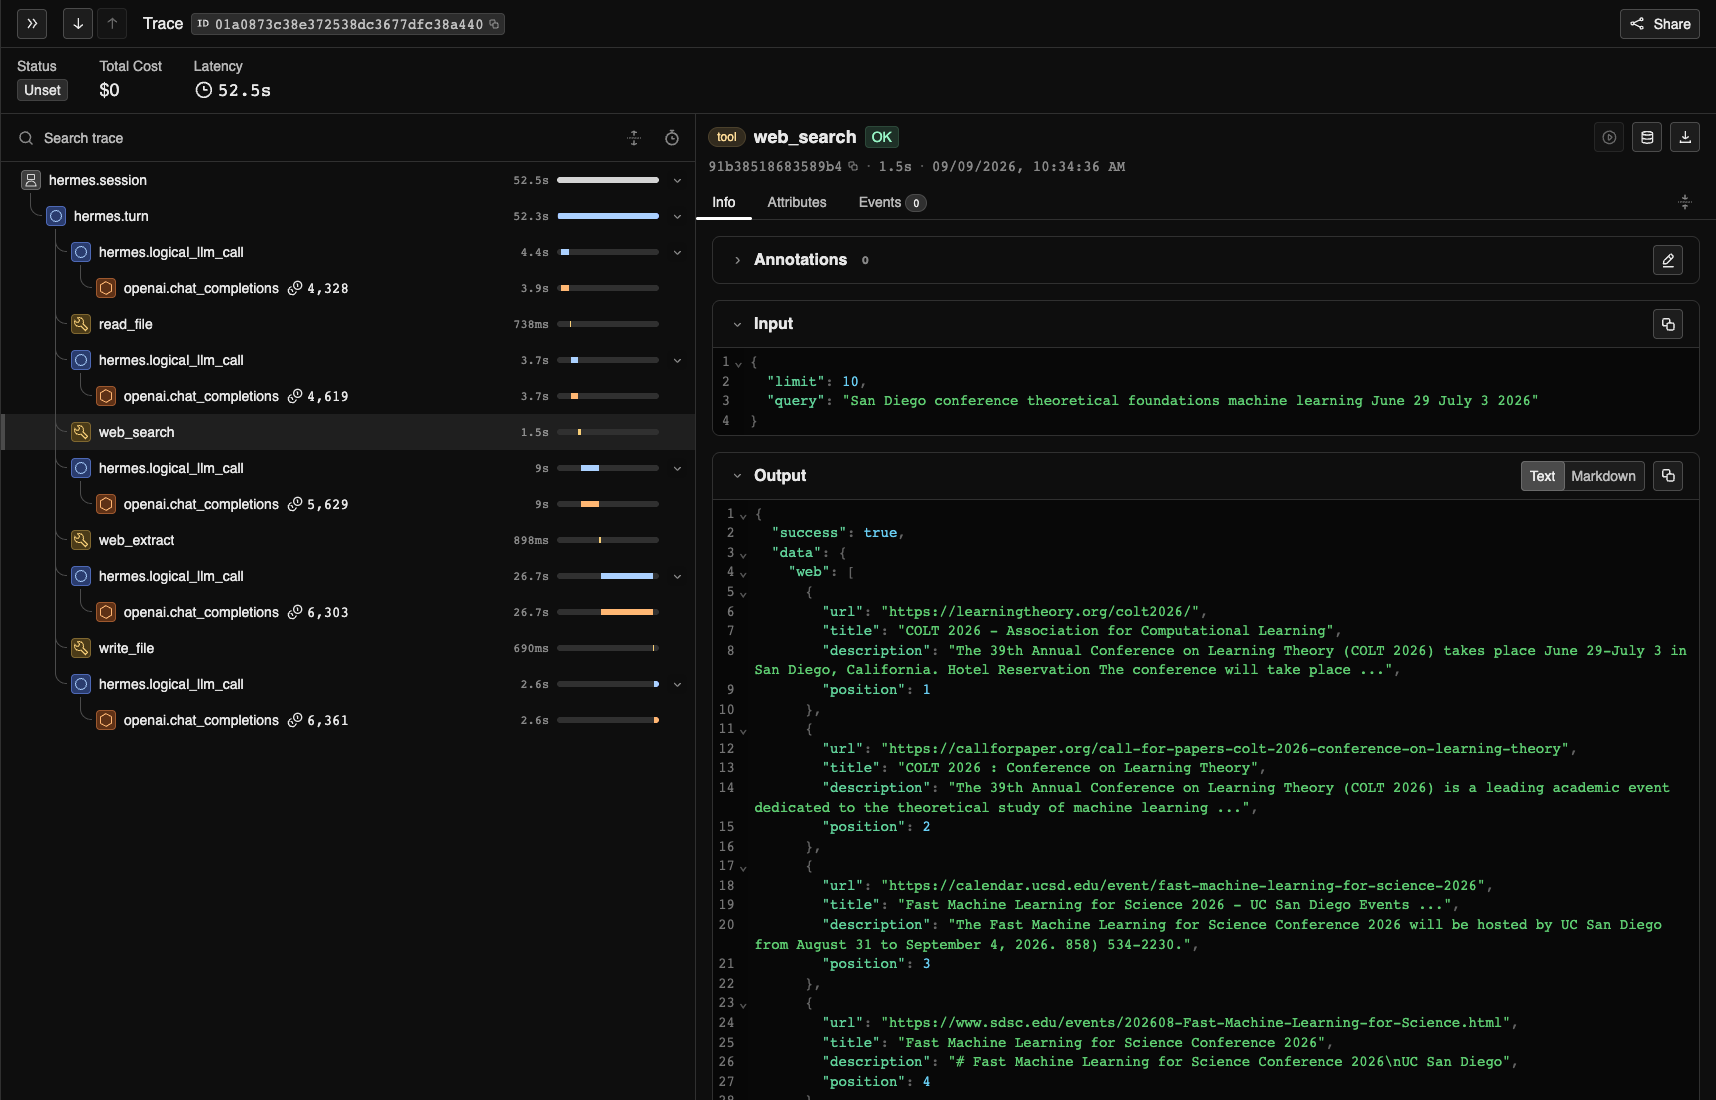
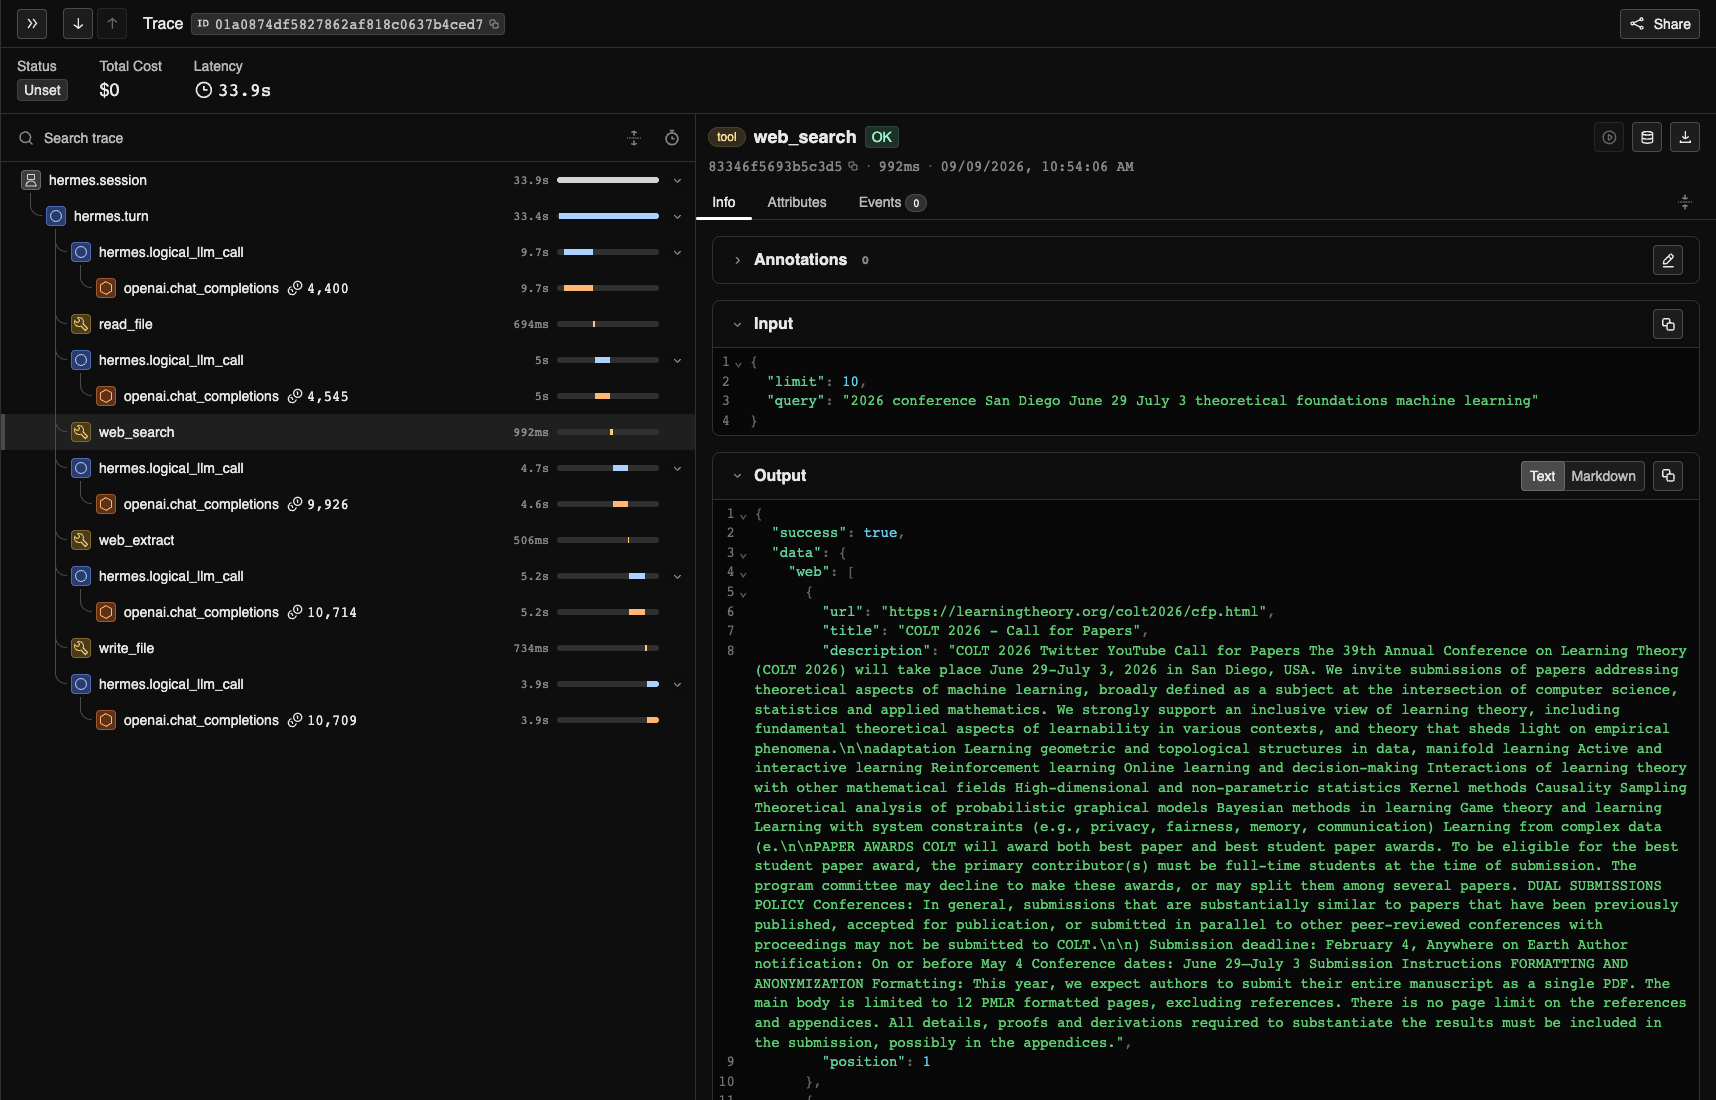
docs: show the Phoenix task workflow

diff --git a/README.md b/README.md
@@ -198,19 +198,23 @@ A clean run of this tutorial completed the research task with Hermes Agent
 [sanitized result summary](results/conference-research-nemotron-3.5-lightning.json)
 records the exact runtime, endpoint, API mode, verifier result, and execution
 measurements. Phoenix received five model calls, four tool calls, no tool
-errors, and 27,240 tokens over 52.5 seconds. No Nemotron price was configured,
+errors, and 40,294 tokens over 33.9 seconds. No Nemotron price was configured,
 so this run does not claim an estimated cost.
 
-Start with the session overview. It shows the full model-and-tool sequence,
-duration and token usage for each completed span, and the Relay session
-metadata.
+Select the first model span to inspect the user's research request and the
+first tool call Hermes chose.
 
-[![Phoenix session trace showing the model-and-tool sequence, duration, token usage, and Relay metadata](screenshots/phoenix-nemotron-trace.png)](screenshots/phoenix-nemotron-trace.png)
+[![Phoenix trace showing the user's research request and the first read-file call](screenshots/phoenix-nemotron-user-query.png)](screenshots/phoenix-nemotron-user-query.png)
 
 Select the `web_search` span to inspect the query and the sources returned to
 Hermes.
 
 [![Phoenix web-search span showing the query and returned sources](screenshots/phoenix-nemotron-web-search-span.png)](screenshots/phoenix-nemotron-web-search-span.png)
+
+Select the `write_file` span to verify the report content, destination, and
+successful write result.
+
+[![Phoenix write-file span showing the saved conference report and successful result](screenshots/phoenix-nemotron-write-file-span.png)](screenshots/phoenix-nemotron-write-file-span.png)
 
 Select the final model span to connect the verified response to that call's
 duration and token usage.
